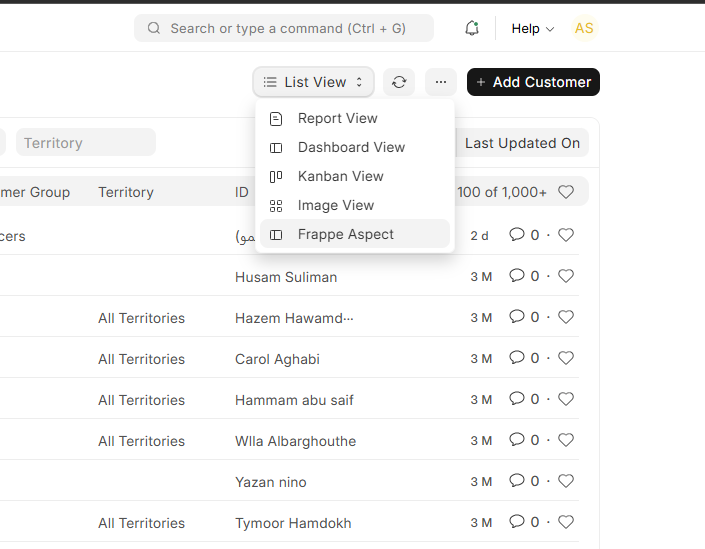
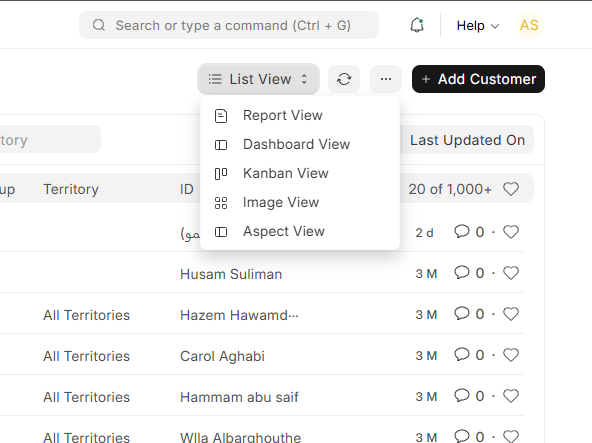
First Init

diff --git a/frappe_aspect/public/dist/css/frappe_aspect.bundle.CXHJSBEH.css b/frappe_aspect/public/dist/css/frappe_aspect.bundle.CXHJSBEH.css
@@ -1,9 +1,9 @@
-/* ../../../../../tmp/tmp-74944-gIQJMT0zqLQX/frappe_aspect/frappe_aspect/public/scss/frappe_aspect.bundle.css */
+/* ../../../../../tmp/tmp-81421-lFpdHBhMJtVd/frappe_aspect/frappe_aspect/public/scss/frappe_aspect.bundle.css */
 body.frappe-aspect-active .navbar > .container {
   max-width: 100%;
   width: 100%;
-  padding-right: var(--padding-md);
   padding-left: var(--padding-md);
+  padding-right: var(--padding-md);
 }
 #page-frappe_aspect .frappe-aspect-container {
   display: flex;
@@ -22,8 +22,8 @@ body.frappe-aspect-active .navbar > .container {
 #page-frappe_aspect .page-body.container {
   width: 100%;
   max-width: 100%;
-  padding-right: 0;
   padding-left: 0;
+  padding-right: 0;
 }
 #page-frappe_aspect > .page-head {
   margin-bottom: 0;
@@ -33,12 +33,12 @@ body.frappe-aspect-active .navbar > .container {
 #page-frappe_aspect > .page-head .container {
   max-width: 100%;
   width: 100%;
-  padding-right: var(--padding-md);
   padding-left: var(--padding-md);
+  padding-right: var(--padding-md);
 }
 #page-frappe_aspect > .page-head .page-head-content {
-  padding-right: 0;
   padding-left: 0;
+  padding-right: 0;
 }
 #page-frappe_aspect .layout-main-section {
   padding: 0;
@@ -137,7 +137,7 @@ body.frappe-aspect-active .navbar > .container {
   z-index: 1;
 }
 #page-frappe_aspect .frappe-aspect-list .page-form .sort-selector .btn-group {
-  margin: var(--margin-xs) var(--margin-xs) var(--margin-xs) 0;
+  margin: var(--margin-xs) 0 var(--margin-xs) var(--margin-xs);
 }
 #page-frappe_aspect .frappe-aspect-list .result,
 #page-frappe_aspect .frappe-aspect-list .freeze,
@@ -160,7 +160,7 @@ body.frappe-aspect-active .navbar > .container {
 }
 #page-frappe_aspect .frappe-aspect-list .list-row.frappe-aspect-selected {
   background-color: var(--control-bg);
-  box-shadow: inset -3px 0 0 var(--primary);
+  box-shadow: inset 3px 0 0 var(--primary);
 }
 #page-frappe_aspect .frappe-aspect-list .list-paging-area {
   border-top: 1px solid var(--border-color);
@@ -181,8 +181,8 @@ body.frappe-aspect-active .navbar > .container {
   content: "";
   position: absolute;
   top: 50%;
-  right: 50%;
-  transform: translate(50%, -50%);
+  left: 50%;
+  transform: translate(-50%, -50%);
   width: 2px;
   height: 32px;
   border-radius: 2px;
@@ -201,8 +201,8 @@ body.frappe-aspect-active .navbar > .container {
 #page-frappe_aspect .o_frappe_aspect_splitter .frappe-aspect-reset-pane {
   position: absolute;
   top: 50%;
-  right: 50%;
-  transform: translate(50%, -50%);
+  left: 50%;
+  transform: translate(-50%, -50%);
   z-index: 11;
   width: 22px;
   height: 22px;
@@ -295,4 +295,4 @@ body.frappe-aspect-resizing {
   -moz-user-select: none;
   user-select: none;
 }
-/*# sourceMappingURL=frappe_aspect.bundle.5CCLK5IW.css.map */
+/*# sourceMappingURL=frappe_aspect.bundle.CXHJSBEH.css.map */

diff --git a/frappe_aspect/public/dist/css-rtl/frappe_aspect.bundle.MEU2Y34K.css b/frappe_aspect/public/dist/css-rtl/frappe_aspect.bundle.MEU2Y34K.css
@@ -1,9 +1,9 @@
-/* ../../../../../tmp/tmp-74944-9ugurP70lTX3/frappe_aspect/frappe_aspect/public/scss/frappe_aspect.bundle.css */
+/* ../../../../../tmp/tmp-81421-dfIQyq2rtmQ0/frappe_aspect/frappe_aspect/public/scss/frappe_aspect.bundle.css */
 body.frappe-aspect-active .navbar > .container {
   max-width: 100%;
   width: 100%;
-  padding-left: var(--padding-md);
   padding-right: var(--padding-md);
+  padding-left: var(--padding-md);
 }
 #page-frappe_aspect .frappe-aspect-container {
   display: flex;
@@ -22,8 +22,8 @@ body.frappe-aspect-active .navbar > .container {
 #page-frappe_aspect .page-body.container {
   width: 100%;
   max-width: 100%;
-  padding-left: 0;
   padding-right: 0;
+  padding-left: 0;
 }
 #page-frappe_aspect > .page-head {
   margin-bottom: 0;
@@ -33,12 +33,12 @@ body.frappe-aspect-active .navbar > .container {
 #page-frappe_aspect > .page-head .container {
   max-width: 100%;
   width: 100%;
-  padding-left: var(--padding-md);
   padding-right: var(--padding-md);
+  padding-left: var(--padding-md);
 }
 #page-frappe_aspect > .page-head .page-head-content {
-  padding-left: 0;
   padding-right: 0;
+  padding-left: 0;
 }
 #page-frappe_aspect .layout-main-section {
   padding: 0;
@@ -137,7 +137,7 @@ body.frappe-aspect-active .navbar > .container {
   z-index: 1;
 }
 #page-frappe_aspect .frappe-aspect-list .page-form .sort-selector .btn-group {
-  margin: var(--margin-xs) 0 var(--margin-xs) var(--margin-xs);
+  margin: var(--margin-xs) var(--margin-xs) var(--margin-xs) 0;
 }
 #page-frappe_aspect .frappe-aspect-list .result,
 #page-frappe_aspect .frappe-aspect-list .freeze,
@@ -160,7 +160,7 @@ body.frappe-aspect-active .navbar > .container {
 }
 #page-frappe_aspect .frappe-aspect-list .list-row.frappe-aspect-selected {
   background-color: var(--control-bg);
-  box-shadow: inset 3px 0 0 var(--primary);
+  box-shadow: inset -3px 0 0 var(--primary);
 }
 #page-frappe_aspect .frappe-aspect-list .list-paging-area {
   border-top: 1px solid var(--border-color);
@@ -181,8 +181,8 @@ body.frappe-aspect-active .navbar > .container {
   content: "";
   position: absolute;
   top: 50%;
-  left: 50%;
-  transform: translate(-50%, -50%);
+  right: 50%;
+  transform: translate(50%, -50%);
   width: 2px;
   height: 32px;
   border-radius: 2px;
@@ -201,8 +201,8 @@ body.frappe-aspect-active .navbar > .container {
 #page-frappe_aspect .o_frappe_aspect_splitter .frappe-aspect-reset-pane {
   position: absolute;
   top: 50%;
-  left: 50%;
-  transform: translate(-50%, -50%);
+  right: 50%;
+  transform: translate(50%, -50%);
   z-index: 11;
   width: 22px;
   height: 22px;
@@ -295,4 +295,4 @@ body.frappe-aspect-resizing {
   -moz-user-select: none;
   user-select: none;
 }
-/*# sourceMappingURL=frappe_aspect.bundle.B6RG4EHW.css.map */
+/*# sourceMappingURL=frappe_aspect.bundle.MEU2Y34K.css.map */

diff --git a/frappe_aspect/public/dist/js/frappe_aspect_assets.bundle.4NRP63HZ.js b/frappe_aspect/public/dist/js/frappe_aspect_assets.bundle.4NRP63HZ.js
@@ -6,7 +6,7 @@
     build_options(txt) {
       const options = super.build_options(txt);
       const filteredOptions = options.filter((option) => {
-        return !(option.value.includes("Frappe Aspect") || option.value.includes("frappe_aspect"));
+        return !(option.value.includes("Aspect View") || option.value.includes("frappe_aspect"));
       });
       return filteredOptions;
     }
@@ -18,7 +18,7 @@
     const original_setup_view_menu = frappe.views.BaseList.prototype.setup_view_menu;
     frappe.views.BaseList.prototype.setup_view_menu = function() {
       original_setup_view_menu.call(this);
-      if (!this.views_menu || this.views_menu.find('[data-view="FrappeAspect"]').length) {
+      if (!this.views_menu || this.views_menu.find('[data-view="AspectView"]').length) {
         return;
       }
       if ($(this.parent).closest("#frappe-aspect-list").length) {
@@ -27,27 +27,27 @@
       if (frappe.get_route()[0] === "frappe_aspect") {
         return;
       }
-      const frappe_aspect_option = `
-			<li data-view="FrappeAspect">
+      const aspect_view_option = `
+			<li data-view="AspectView">
 				<a class="grey-link dropdown-item" href="#" onclick="return false;">
 					<span class="menu-item-icon">
 						<svg class="icon icon-sm" aria-hidden="true">
 							<use href="#icon-dashboard"></use>
 						</svg>
 					</span>
-					<span class="menu-item-label" data-label="FrappeAspect">
+					<span class="menu-item-label" data-label="AspectView">
 						<span>
-							<span class="alt-underline">F</span>rappe Aspect
+							<span class="alt-underline">A</span>spect View
 						</span>
 					</span>
 				</a>
 			</li>`;
-      $(frappe_aspect_option).appendTo(this.views_menu);
-      this.views_menu.find('[data-view="FrappeAspect"]').on("click", function() {
+      $(aspect_view_option).appendTo(this.views_menu);
+      this.views_menu.find('[data-view="AspectView"]').on("click", function() {
         const doctype = frappe.get_route()[1];
         frappe.set_route(`/app/frappe_aspect/${doctype}/frappe_aspect`);
       });
     };
   })();
 })();
-//# sourceMappingURL=frappe_aspect_assets.bundle.EUEUGBLF.js.map
+//# sourceMappingURL=frappe_aspect_assets.bundle.4NRP63HZ.js.map

diff --git a/frappe_aspect/public/js/frappe_aspect_extension.js b/frappe_aspect/public/js/frappe_aspect_extension.js
@@ -6,8 +6,8 @@ frappe.provide("frappe.views");
 	frappe.views.BaseList.prototype.setup_view_menu = function() {
 		original_setup_view_menu.call(this);
 
-		// Only add the menu entry on standard desk list views — not inside Frappe Aspect
-		if (!this.views_menu || this.views_menu.find('[data-view="FrappeAspect"]').length) {
+		// Only add the menu entry on standard desk list views — not inside Aspect View
+		if (!this.views_menu || this.views_menu.find('[data-view="AspectView"]').length) {
 			return;
 		}
 		if ($(this.parent).closest("#frappe-aspect-list").length) {
@@ -17,24 +17,24 @@ frappe.provide("frappe.views");
 			return;
 		}
 
-		const frappe_aspect_option = `
-			<li data-view="FrappeAspect">
+		const aspect_view_option = `
+			<li data-view="AspectView">
 				<a class="grey-link dropdown-item" href="#" onclick="return false;">
 					<span class="menu-item-icon">
 						<svg class="icon icon-sm" aria-hidden="true">
 							<use href="#icon-dashboard"></use>
 						</svg>
 					</span>
-					<span class="menu-item-label" data-label="FrappeAspect">
+					<span class="menu-item-label" data-label="AspectView">
 						<span>
-							<span class="alt-underline">F</span>rappe Aspect
+							<span class="alt-underline">A</span>spect View
 						</span>
 					</span>
 				</a>
 			</li>`;
-		$(frappe_aspect_option).appendTo(this.views_menu);
+		$(aspect_view_option).appendTo(this.views_menu);
 
-		this.views_menu.find('[data-view="FrappeAspect"]').on("click", function() {
+		this.views_menu.find('[data-view="AspectView"]').on("click", function() {
 			const doctype = frappe.get_route()[1];
 			frappe.set_route(`/app/frappe_aspect/${doctype}/frappe_aspect`);
 		});

diff --git a/frappe_aspect/public/js/awesome_bar.js b/frappe_aspect/public/js/awesome_bar.js
@@ -10,7 +10,7 @@ frappe.search.AwesomeBar = class extends frappe.search.AwesomeBar {
         const filteredOptions = options.filter(option => {
             // Modify the condition based on your requirements
             // Here, we're assuming 'frappe_aspect' is part of the value property
-            return !(option.value.includes("Frappe Aspect") || option.value.includes("frappe_aspect"));
+            return !(option.value.includes("Aspect View") || option.value.includes("frappe_aspect"));
         });
 
         return filteredOptions;

diff --git a/frappe_aspect/frappe_aspect/page/frappe_aspect/frappeaspectactions.html b/frappe_aspect/frappe_aspect/page/frappe_aspect/frappeaspectactions.html
@@ -4,7 +4,7 @@
             <svg class="icon icon-sm" aria-hidden="true">
                 <use href="#icon-dashboard"></use>
             </svg>
-            <span class="custom-btn-group-label">Frappe Aspect</span>
+            <span class="custom-btn-group-label">Aspect View</span>
             <svg class="icon icon-xs" aria-hidden="true">
                 <use href="#icon-select"></use>
             </svg>

diff --git a/README.md b/README.md
@@ -6,13 +6,13 @@ Frappe Aspect adds a resizable split-screen workspace for ERPNext and Frappe —
 
 ## Screenshots
 
-Open **Frappe Aspect** from the list view menu on any DocType:
+Open **Aspect View** from the list view menu on any DocType:
 
-![Frappe Aspect in list view menu](docs/images/view-menu.png)
+![Aspect View in list view menu](docs/images/view-menu.png)
 
 Browse records and edit details side by side in one screen:
 
-![Frappe Aspect split view](docs/images/split-view.png)
+![Aspect View split view](docs/images/split-view.png)
 
 ## Features
 
@@ -28,7 +28,7 @@ Enhanced Productivity: By reducing the need to switch screens, the app helps use
 
 Search and Filter: Standard Frappe list filters and sorting are available in the list pane.
 
-Easy to Use: Switch between Frappe Aspect and the normal list view in a single click.
+Easy to Use: Switch between Aspect View and the normal list view in a single click.
 
 ## License
 
